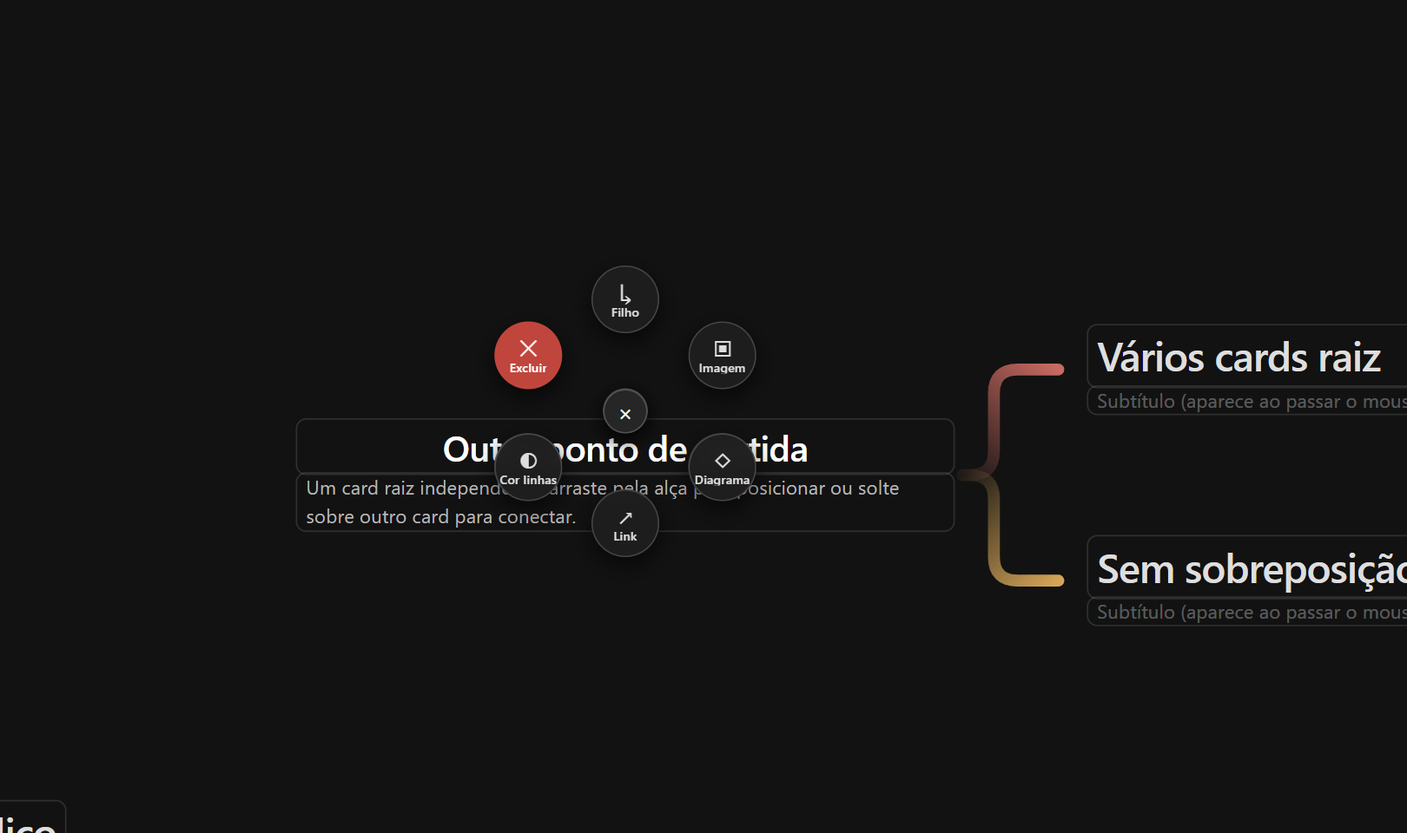
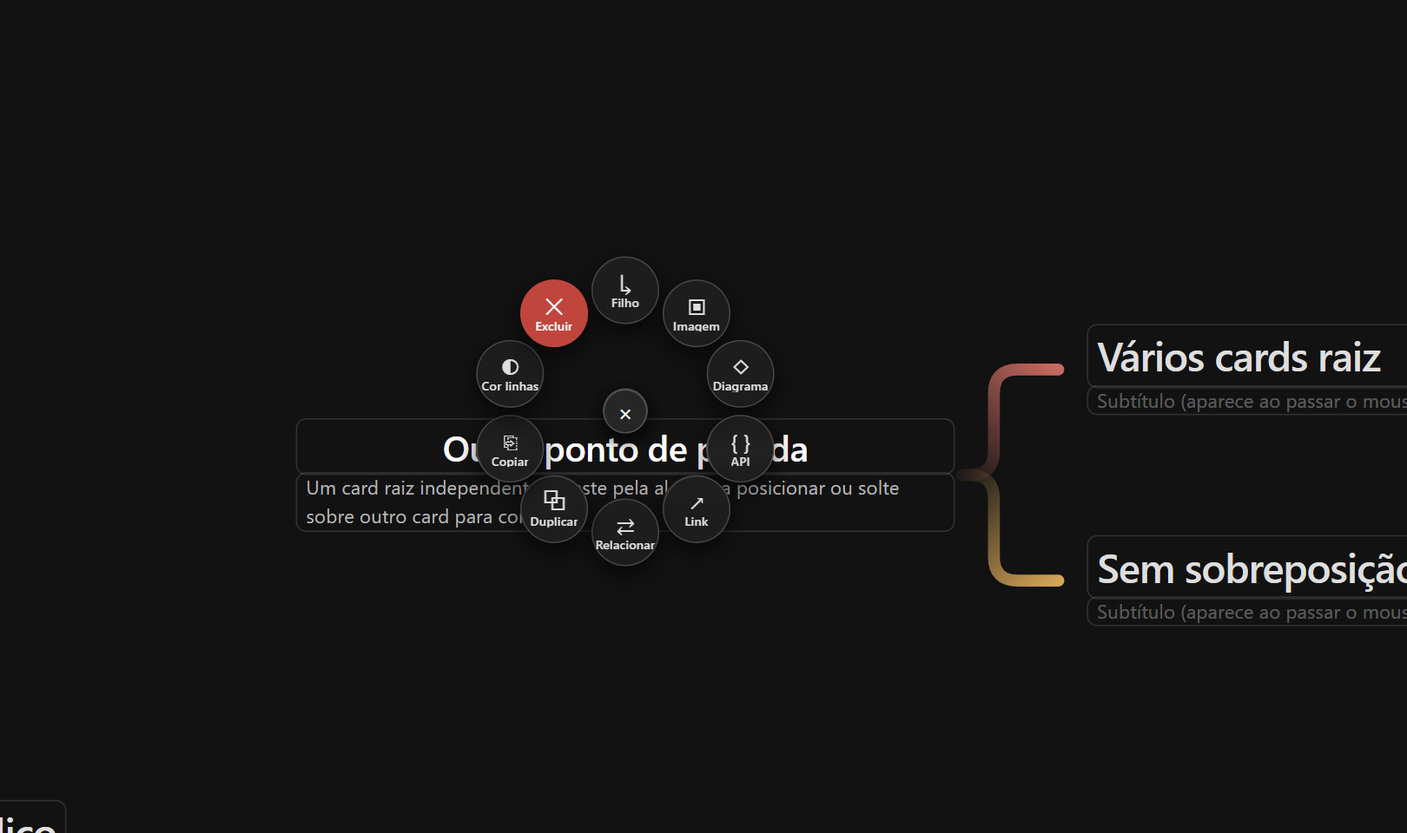
feat(api): attach collections and folders to cards
Cards can carry API references (node.apis, validated by the server). Drag a
collection or folder from the API panel onto a card, or use the wheel's API
action and the ⤓ buttons. The card shows an image-like tile with the first
requests that opens the client at that folder; a saved snapshot keeps it
readable offline, in text mode and in exported HTML. Docs (README en/pt,
schema, changelog), a new screenshot and API-10 cover it.

Changed region(s): [[0.3086, 0.5, 0.5556, 0.6875], [0.3395, 0.3125, 0.5556, 0.4688]]

diff --git a/app.js b/app.js
@@ -3,7 +3,7 @@ import {cancelMotion,snapshot,animateLayout,hoverEdge,updateEdges,onEdges} from 
 import * as store from './store.js?v=17';
 import {t,applyStatic} from './i18n.js?v=1';
 import {VERSION} from './version.js?v=1';
-import {initApiClient,openApiPanel,closeApiPanel,isApiOpen} from './api-client.js?v=1';
+import {initApiClient,openApiPanel,closeApiPanel,isApiOpen,setAttachTarget,summarize,API_DRAG_TYPE} from './api-client.js?v=2';
 applyStatic();
 const $=s=>document.querySelector(s), viewport=$('#viewport'), world=$('#world');
 $('#doc-version').textContent=`Context Maps v${VERSION}`;
@@ -269,10 +269,16 @@ async function addImages(node,files){
 const isImageFile=f=>/^image\/(png|jpe?g|webp|gif|svg\+xml)$/.test(f.type)||/\.(png|jpe?g|webp|gif|svg)$/i.test(f.name);
 const hasFiles=e=>!!e.dataTransfer&&[...(e.dataTransfer.types||[])].includes('Files');
 function enableDrop(el,node){
- const over=e=>{if(!hasFiles(e))return;e.preventDefault();e.dataTransfer.dropEffect='copy';el.classList.add('drop-target');};
+ const isApi=e=>!!e.dataTransfer&&[...(e.dataTransfer.types||[])].includes(API_DRAG_TYPE);
+ const over=e=>{if(!hasFiles(e)&&!isApi(e))return;e.preventDefault();e.dataTransfer.dropEffect='copy';el.classList.add('drop-target');};
  el.addEventListener('dragenter',over);el.addEventListener('dragover',over);
  el.addEventListener('dragleave',e=>{if(!el.contains(e.relatedTarget))el.classList.remove('drop-target');});
  el.addEventListener('drop',e=>{
+  if(isApi(e)){
+   e.preventDefault();e.stopPropagation();el.classList.remove('drop-target');
+   try{const ref=JSON.parse(e.dataTransfer.getData(API_DRAG_TYPE));endAttach();attachApi(node,ref);}catch{}
+   return;
+  }
   if(!hasFiles(e))return;
   e.preventDefault();e.stopPropagation();el.classList.remove('drop-target');
   const files=[...e.dataTransfer.files],images=files.filter(isImageFile);
@@ -359,6 +365,58 @@ function startRelate(node){
  showToast(t('relateHint',nameOf(node)),false,600000);
  document.addEventListener('keydown',onRelateKey,true); // Esc vale desde já
  setTimeout(()=>{if(relating)document.addEventListener('click',onRelateClick,true);},0); // o clique que abriu o menu não conta
+}
+
+/* APIs anexadas a um card: um bloco parecido com uma imagem que abre o cliente de API na coleção/pasta escolhida */
+const apiCache=new Map();
+function apiSummary(ref){
+ const key=`${ref.collection}|${ref.path||''}`,hit=apiCache.get(key);
+ if(hit&&Date.now()-hit.at<4000)return hit.promise;
+ const promise=summarize(ref).catch(()=>null);apiCache.set(key,{at:Date.now(),promise});return promise;
+}
+const API_ROWS=4;
+function apiTile(node,ref,index){
+ const readOnly=!!document.getElementById('cm-doc'); // HTML exportado: sem servidor, só o resumo salvo
+ const rows=Array.from({length:API_ROWS},()=>{const row=document.createElement('span');row.className='api-tile-row';return row;});
+ const foot=document.createElement('span');foot.className='api-tile-foot';
+ const head=document.createElement('span');head.className='api-tile-head';head.textContent=t('apiTileLabel',ref.name||ref.collection);
+ const fill=(sum,live)=>{
+  const data=sum||ref.snapshot;
+  rows.forEach((row,i)=>{
+   row.replaceChildren();const r=data?.requests?.[i];if(!r)return;
+   const m=document.createElement('span');m.className=`api-method api-m-${r.method}`;m.textContent=String(r.method).toUpperCase().slice(0,6);
+   const n=document.createElement('span');n.className='api-tile-req';n.textContent=r.name;row.append(m,n);
+  });
+  const count=data?.count??data?.requests?.length??0;
+  foot.textContent=data?`${t('apiTileCount',count)}${count>API_ROWS?` · ${t('apiTileMore',count-API_ROWS)}`:''}${live===false?` · ${t('apiOffline')}`:''}`:t('apiMissing');
+  if(sum&&sum.name)head.textContent=t('apiTileLabel',sum.name);
+ };
+ fill(null,false);
+ if(!readOnly)apiSummary(ref).then(sum=>fill(sum,!!sum));
+ const tile=document.createElement(readOnly?'div':'button');tile.className='api-tile';
+ if(!readOnly){tile.type='button';tile.setAttribute('aria-label',t('apiOpenTile',ref.name||ref.collection));tile.onclick=()=>{openApiPanel({collection:ref.collection,path:ref.path||''});$('#api-btn').setAttribute('aria-expanded','true');};}
+ tile.append(head,...rows,foot);
+ if(!editing||readOnly)return tile;
+ const item=document.createElement('div');item.className='image-item api-item';item.append(tile);
+ const tools=document.createElement('div');tools.className='image-tools';
+ const remove=document.createElement('button');remove.type='button';remove.textContent='×';remove.className='danger';remove.setAttribute('aria-label',`${t('apiDetach')}: ${nameOf(node)}`);
+ remove.onclick=()=>{node.apis.splice(index,1);if(!node.apis.length)delete node.apis;commit();render();};
+ tools.append(remove);item.append(tools);return item;
+}
+let attachTarget=null;
+function startAttach(node){attachTarget=node;openApiPanel();$('#api-btn').setAttribute('aria-expanded','true');setAttachTarget(nameOf(node));}
+function endAttach(){attachTarget=null;setAttachTarget(null);}
+async function attachApi(node,ref){
+ const entry={collection:ref.collection,path:ref.path||'',name:ref.name||ref.collectionName||ref.collection};
+ if((node.apis||[]).some(a=>a.collection===entry.collection&&(a.path||'')===entry.path))return;
+ const sum=await summarize({collection:entry.collection,path:entry.path}).catch(()=>null);
+ if(sum)entry.snapshot={count:sum.count,requests:sum.requests.map(r=>({name:r.name,method:r.method}))};
+ (node.apis||=[]).push(entry);commit();render();revealNode(node.id);
+ showToast(t('apiAttached',entry.name),true,4000);
+}
+function attachFromPanel(ref){
+ if(!attachTarget||!findAny(attachTarget.id)){showToast(t('apiPickCard'),false,6000);return;}
+ const target=attachTarget;endAttach();attachApi(target,ref);
 }
 
 /* Duplicar, copiar e colar ideias (com tudo abaixo). A área de cópia fica no navegador, então vale entre apresentações. */
@@ -468,6 +526,7 @@ function radialItems(node,depth,picker,anchor){
  items.push(
   {icon:'▣',label:t('image'),aria:t('addImage'),run:()=>picker.click()},
   {icon:'◇',label:t('diagram'),aria:t('addDiagram'),run:()=>openDiagramEditor(node,null)},
+  {icon:'{ }',label:t('apiButton'),aria:t('apiAttach'),run:()=>startAttach(node)},
   {icon:'↗',label:t('link'),aria:t('addLink'),run:()=>addLink(node)});
  items.push({icon:'⇄',label:t('relate'),aria:t('relateIdea'),run:()=>startRelate(node)},{icon:'⧉',label:t('duplicate'),aria:t('duplicateIdea'),run:()=>duplicateNode(node)},{icon:'⎘',label:t('copy'),aria:t('copyIdea'),run:()=>copyNode(node)});
  if((readClip()||memoryClip)?.kind==='context-maps-node')items.push({icon:'⎗',label:t('paste'),aria:t('pasteIdea'),run:()=>pasteNode(node)});
@@ -766,7 +825,9 @@ function render(){
   if(!editing&&!node.children.length)el.tabIndex=0; // folhas também recebem foco do teclado
   el.addEventListener('pointerenter',()=>{hoverEdge(node.id,true);hoverCross(node.id,true);});el.addEventListener('pointerleave',()=>{hoverEdge(node.id,false);hoverCross(node.id,false);});
   const images=imagesOf(node);
-  if(images.length){el.classList.add('has-image');images.forEach((image,i)=>el.append(imageItem(node,image,i)));}
+  if(images.length||(node.apis||[]).length)el.classList.add('has-image');
+  images.forEach((image,i)=>el.append(imageItem(node,image,i)));
+  (node.apis||[]).forEach((ref,i)=>el.append(apiTile(node,ref,i)));
   const text=document.createElement(isRoot?'h1':'p');el.append(text);
   const titled=node.title.trim().length>0;
   if(!titled&&!editing){text.hidden=true;el.classList.add('no-title');}
@@ -893,6 +954,7 @@ function buildReading(){
   if(node.subtitle){const sp=document.createElement('p');sp.className='reading-subtitle';sp.textContent=node.subtitle;article.append(sp);}
   imagesOf(node).forEach(image=>article.append(imageFor(image)));
   if(linksOf(node).length){const row=document.createElement('div');row.className='reading-links';linksOf(node).forEach(l=>row.append(anchorFor(l,'reading-link')));article.append(row);}
+  for(const ref of node.apis||[]){const p=document.createElement('p');p.className='reading-api';p.textContent=`${t('apiReadingLabel',ref.name||ref.collection,t('apiTileCount',ref.snapshot?.count??0))}`;article.append(p);}
   {const rels=relationsOf(node.id);if(rels.length){const p=document.createElement('p');p.className='reading-related';p.textContent=`↔ ${rels.map(nameOf).join(' · ')}`;article.append(p);}}
   node.children.forEach(c=>walk(c,depth+1));
  };
@@ -1067,7 +1129,7 @@ searchInput.addEventListener('keydown',e=>{
  else if(e.key==='Enter'){e.preventDefault();chooseSearch(searchIndex);}
  else if(e.key==='ArrowDown'||e.key==='ArrowUp'){e.preventDefault();if(searchHits.length){searchIndex=(searchIndex+(e.key==='ArrowDown'?1:-1)+searchHits.length)%searchHits.length;renderSearch();searchList.children[searchIndex]?.scrollIntoView({block:'nearest'});}}
 });
-initApiClient({toast:message=>showToast(message,false,5000),onClose:()=>$('#api-btn').setAttribute('aria-expanded','false')});
+initApiClient({toast:message=>showToast(message,false,5000),onClose:()=>{$('#api-btn').setAttribute('aria-expanded','false');endAttach();},attach:ref=>attachFromPanel(ref),attachCancel:()=>endAttach()});
 $('#api-btn').onclick=()=>{if(isApiOpen()){closeApiPanel();}else{openApiPanel();$('#api-btn').setAttribute('aria-expanded','true');}};
 $('#search-btn').onclick=()=>searchPanel.hidden?openSearch():closeSearch();
 document.addEventListener('pointerdown',e=>{if(!searchPanel.hidden&&!e.target.closest('#search-panel,#search-btn'))closeSearch(false);});

diff --git a/i18n.js b/i18n.js
@@ -130,7 +130,7 @@ const apiStrings={
   apiScriptPre:'Pre-request script',apiScriptPost:'Post-response script',apiTests:'Tests',apiScriptsNote:'Scripts, tests and assertions are kept in the file (Bruno can run them) but are not executed here yet.',apiNoScripts:'This request has no scripts.',
   apiNoResponse:'No response yet. Press Send (Ctrl+Enter).',apiTimeout:s=>`Timed out after ${s} s`,apiCancelled:'Cancelled',apiFailed:'Request failed',apiTruncated:'truncated',apiBinary:n=>`Binary response (${n}) — not shown`,
   apiRespBody:'Body',apiRespHeaders:'Headers',apiRaw:'Raw',apiPretty:'Pretty',apiCopy:'Copy',apiCopied:'Copied',
-  apiTileLabel:n=>`API: ${n}`,apiTileCount:n=>`${n} ${n===1?'request':'requests'}`,apiTileMore:n=>`+${n} more`,apiOpenTile:n=>`Open API client: ${n}`,apiDetach:'Remove API from card',apiAttachHint:n=>`Drag a collection or folder from the API panel onto “${n}”, or use ⤓ on one of them`,apiAttached:n=>`“${n}” attached to the card`,apiMissing:'collection not found'
+  apiTileLabel:n=>`API: ${n}`,apiTileCount:n=>`${n} ${n===1?'request':'requests'}`,apiTileMore:n=>`+${n} more`,apiOpenTile:n=>`Open API client: ${n}`,apiDetach:'Remove API from card',apiAttachHint:n=>`Drag a collection or folder from the API panel onto “${n}”, or use ⤓ on one of them`,apiAttached:n=>`“${n}” attached to the card`,apiMissing:'collection not found',apiAttachBanner:n=>`Attaching to “${n}”: click ⤓ on a collection or folder, or drag it onto the card`,apiAttachCancel:'Cancel',apiPickCard:'Open the card’s wheel (✎) and choose API first, or drag the item onto a card in edit mode',apiOffline:'saved snapshot',apiReadingLabel:(n,c)=>`API: ${n} (${c})`
  },
  pt:{
   apiButton:'API',apiButtonTitle:'Cliente de API (tela dividida)',apiTitle:'Cliente de API',apiClose:'Fechar o cliente de API',apiResize:'Redimensionar o painel de API',
@@ -151,7 +151,7 @@ const apiStrings={
   apiScriptPre:'Script de pré-requisição',apiScriptPost:'Script pós-resposta',apiTests:'Testes',apiScriptsNote:'Scripts, testes e asserções ficam guardados no arquivo (o Bruno consegue executá-los), mas ainda não são executados aqui.',apiNoScripts:'Esta request não tem scripts.',
   apiNoResponse:'Sem resposta ainda. Clique em Enviar (Ctrl+Enter).',apiTimeout:s=>`Tempo esgotado após ${s} s`,apiCancelled:'Cancelada',apiFailed:'A requisição falhou',apiTruncated:'truncada',apiBinary:n=>`Resposta binária (${n}) — não exibida`,
   apiRespBody:'Corpo',apiRespHeaders:'Cabeçalhos',apiRaw:'Bruto',apiPretty:'Formatado',apiCopy:'Copiar',apiCopied:'Copiado',
-  apiTileLabel:n=>`API: ${n}`,apiTileCount:n=>`${n} ${n===1?'request':'requests'}`,apiTileMore:n=>`+${n} mais`,apiOpenTile:n=>`Abrir o cliente de API: ${n}`,apiDetach:'Remover a API do card',apiAttachHint:n=>`Arraste uma coleção ou pasta do painel de API para “${n}”, ou use ⤓ em uma delas`,apiAttached:n=>`“${n}” anexada ao card`,apiMissing:'coleção não encontrada'
+  apiTileLabel:n=>`API: ${n}`,apiTileCount:n=>`${n} ${n===1?'request':'requests'}`,apiTileMore:n=>`+${n} mais`,apiOpenTile:n=>`Abrir o cliente de API: ${n}`,apiDetach:'Remover a API do card',apiAttachHint:n=>`Arraste uma coleção ou pasta do painel de API para “${n}”, ou use ⤓ em uma delas`,apiAttached:n=>`“${n}” anexada ao card`,apiMissing:'coleção não encontrada',apiAttachBanner:n=>`Anexando a “${n}”: clique em ⤓ numa coleção ou pasta, ou arraste-a para o card`,apiAttachCancel:'Cancelar',apiPickCard:'Abra a roda do card (✎) e escolha API primeiro, ou arraste o item para um card no modo de edição',apiOffline:'resumo salvo',apiReadingLabel:(n,c)=>`API: ${n} (${c})`
  }
 };
 Object.assign(dict.en,apiStrings.en);Object.assign(dict.pt,apiStrings.pt);

diff --git a/api-client.js b/api-client.js
@@ -155,7 +155,7 @@ function treeRows(items,depth,q){
  return items.filter(it=>matches(it,q)).flatMap(it=>{
   const isFolder=it.type==='folder',open=q?true:state.expanded.has(it.path);
   const row=h('li',{role:'treeitem','aria-level':String(depth+1),'aria-expanded':isFolder?String(open):null,'aria-selected':String(!isFolder&&it.path===state.reqPath),class:`api-row${!isFolder&&it.path===state.reqPath?' is-active':''}`,style:`--depth:${depth}`,draggable:'true',dataset:{path:it.path}},
-   h('button',{type:'button',class:'api-row-main',onClick:()=>{if(isFolder){state.expanded.has(it.path)?state.expanded.delete(it.path):state.expanded.add(it.path);renderTree();}else openRequest(it.path);}},
+   h('button',{type:'button',class:'api-row-main',draggable:'true',onClick:()=>{if(isFolder){state.expanded.has(it.path)?state.expanded.delete(it.path):state.expanded.add(it.path);renderTree();}else openRequest(it.path);}},
     isFolder?h('span',{class:'api-caret','aria-hidden':'true'},open?'▾':'▸'):methodBadge(it.method),
     h('span',{class:'api-row-name'},isFolder?`📁 ${it.name}`:it.name)),
    h('span',{class:'api-row-actions'},
@@ -395,7 +395,8 @@ function build(){
   h('div',{class:'api-tree-tools'},filter,h('button',{type:'button',class:'api-icon-btn',title:t('apiNewRequest'),'aria-label':t('apiNewRequest'),onClick:()=>state.coll&&newItem('request','')},'+'),h('button',{type:'button',class:'api-icon-btn',title:t('apiNewFolder'),'aria-label':t('apiNewFolder'),onClick:()=>state.coll&&newItem('folder','')},'▤')),
   els.tree);
  const resizer=h('div',{class:'api-resizer',role:'separator','aria-orientation':'vertical','aria-label':t('apiResize'),tabindex:'0'});
- panel=h('aside',{id:'api-panel',class:'api-panel',role:'complementary','aria-label':t('apiTitle'),hidden:true},resizer,els.head,h('div',{class:'api-body'},treeCol,els.main),els.importInput);
+ els.banner=h('div',{class:'api-attach-banner',role:'status',hidden:true},h('span',{}),h('button',{type:'button',class:'api-btn',onClick:()=>{setAttachTarget(null);hooks.attachCancel?.();}},t('apiAttachCancel')));
+ panel=h('aside',{id:'api-panel',class:'api-panel',role:'complementary','aria-label':t('apiTitle'),hidden:true},resizer,els.head,els.banner,h('div',{class:'api-body'},treeCol,els.main),els.importInput);
  document.body.append(panel);
  // largura: arrastar a borda ou usar as setas
  const setWidth=px=>{const w=Math.min(Math.max(px,420),window.innerWidth-260);document.documentElement.style.setProperty('--api-w',`${w}px`);store.set('cm-api-width',String(Math.round(w)));};
@@ -416,6 +417,10 @@ function build(){
 /* ---------- interface pública ---------- */
 export function initApiClient(options={}){hooks=options;}
 export const isApiOpen=()=>state.open;
+export function setAttachTarget(label){ // faixa no topo do painel: aviso de que o próximo ⤓ vai para este card
+ if(!panel)build();
+ els.banner.hidden=!label;if(label)els.banner.firstChild.textContent=t('apiAttachBanner',label);
+}
 export async function openApiPanel({collection,path}={}){
  if(!panel)build();
  state.open=true;panel.hidden=false;document.body.classList.add('api-open');

diff --git a/index.html b/index.html
@@ -1,6 +1,6 @@
 <!doctype html>
 <html lang="en">
-<head><meta charset="UTF-8"><meta name="viewport" content="width=device-width, initial-scale=1"><meta name="theme-color" content="#121212"><title>Context Maps</title><link rel="stylesheet" href="styles.css?v=45"></head>
+<head><meta charset="UTF-8"><meta name="viewport" content="width=device-width, initial-scale=1"><meta name="theme-color" content="#121212"><title>Context Maps</title><link rel="stylesheet" href="styles.css?v=46"></head>
 <body>
  <main id="viewport" data-i18n-attr="aria-label:viewport" aria-label="Interactive map"><div id="world"><svg id="connections" aria-hidden="true"></svg><svg id="cross-links" aria-hidden="true"></svg><div id="nodes" role="tree" data-i18n-attr="aria-label:treeLabel"></div></div></main>
  <div id="doc-bar" class="doc-bar"><button id="doc-button" aria-haspopup="menu" aria-expanded="false"><span id="doc-title"></span><svg viewBox="0 0 12 12" aria-hidden="true"><path d="m3 4.5 3 3 3-3" fill="none" stroke="currentColor" stroke-width="1.6" stroke-linecap="round" stroke-linejoin="round"/></svg></button><span id="save-status" role="status" aria-live="polite"></span><div id="doc-menu" role="menu" hidden><div id="doc-list"></div><button id="doc-new" type="button" role="menuitem" data-i18n="docNew"></button><button id="doc-addfolder" type="button" role="menuitem" data-i18n="docAddFolder"></button><button id="doc-saveas" type="button" role="menuitem" data-i18n="docSaveAs"></button><button id="doc-copy" type="button" role="menuitem" data-i18n="docCopy"></button><button id="doc-export-html" type="button" role="menuitem" data-i18n="exportHtml"></button><button id="doc-export-zip" type="button" role="menuitem" data-i18n="exportZip"></button><button id="doc-import" type="button" role="menuitem" data-i18n="importFile"></button><input id="import-input" type="file" accept=".zip,.html,.htm,application/zip,text/html" hidden><button id="doc-delete" type="button" role="menuitem" class="danger" data-i18n="docDelete"></button><div id="doc-version" aria-hidden="true"></div></div></div>
@@ -39,5 +39,5 @@
    <footer><span id="diagram-error" role="alert"></span><button id="diagram-apply" type="button" data-i18n="apply"></button></footer>
   </div>
  </div>
- <script type="module" src="app.js?v=45"></script>
+ <script type="module" src="app.js?v=46"></script>
 </body></html>

diff --git a/styles.css b/styles.css
@@ -461,3 +461,20 @@ body.api-resizing{cursor:col-resize;user-select:none}
 .api-modal-card header,.api-modal-card footer{display:flex;align-items:center;justify-content:space-between;gap:.5rem}
 .api-modal-card h3{margin:0;font-size:.95rem}
 @media (max-width:900px){body.api-open #viewport{right:0;bottom:55vh}.api-panel{top:auto;left:0;width:auto;height:55vh;border-left:0;border-top:1px solid #ffffff1f}body.api-open .toolbar{left:50%;bottom:calc(55vh + .6rem)}body.api-open .zoom-controls{right:1rem;bottom:calc(55vh + .6rem)}.api-resizer{display:none}.api-tree-col{width:42%}}
+
+/* Cartão de API dentro do card (parece uma imagem; abre o cliente de API) */
+.node .api-tile{display:flex;flex-direction:column;gap:3px;width:100%;margin-bottom:10px;padding:.65rem .75rem;text-align:left;border-radius:8px;border:1px solid #ffffff1f;background:linear-gradient(160deg,#ffffff10,#ffffff05);color:#ffffffd9;font:inherit;cursor:pointer;box-shadow:inset 0 0 0 1px #ffffff0a}
+.node div.api-tile{cursor:default}
+.node .api-tile:hover{border-color:#4f9d7a88;background:linear-gradient(160deg,#4f9d7a22,#ffffff08)}
+.api-tile-head{font-weight:700;font-size:.82rem;color:#fff;overflow:hidden;text-overflow:ellipsis;white-space:nowrap}
+.api-tile-row{display:flex;align-items:center;gap:.5rem;min-height:1.25rem;font-size:.74rem}
+.api-tile-req{overflow:hidden;text-overflow:ellipsis;white-space:nowrap;color:#ffffffc7}
+.api-tile-foot{margin-top:2px;font-size:.68rem;color:#ffffff80}
+.node .api-tile .api-method{min-width:2.6rem;text-align:left}
+.api-item .api-tile{margin-bottom:10px}
+.reading-api{margin:.2rem 0 .8rem;color:#8fd1b0;font-size:.82rem}
+.api-attach-banner{display:flex;align-items:center;justify-content:space-between;gap:.6rem;padding:.45rem .8rem;background:#2f7d5d33;border-bottom:1px solid #2f7d5d88;color:#d6f2e4;font-size:.76rem}
+.api-attach-banner[hidden]{display:none}
+.api-row .api-attach{color:#8fd1b0}
+.api-collection-row .api-attach{color:#8fd1b0}
+body.is-editing .node.drop-target{outline:2px dashed #4f9d7a;outline-offset:6px;border-radius:12px}

diff --git a/README.pt-BR.md b/README.pt-BR.md
@@ -41,7 +41,7 @@ decisões — e publica o mapa pronto, com imagens, diagramas e links.
 - [Por que Context Maps](#por-que-context-maps)
 - [Como as peças se encaixam](#como-as-peças-se-encaixam)
 - [Começando](#começando)
-- [Recursos](#recursos) — [navegar](#navegar-e-ler) · [editar](#editar) · [diagramas](#imagens-diagramas-e-links) · [exportar](#exportar-importar-e-compartilhar) · [salvar como](#salvar-como-e-pastas)
+- [Recursos](#recursos) — [navegar](#navegar-e-ler) · [editar](#editar) · [diagramas](#imagens-diagramas-e-links) · [cliente de API](#cliente-de-api-tela-dividida) · [exportar](#exportar-importar-e-compartilhar) · [salvar como](#salvar-como-e-pastas)
 - [Skill para agentes](#skill-para-agentes)
 - [Formato dos dados](#formato-dos-dados) · [API do servidor](#api-do-servidor) · [Segurança](#segurança)
 - [Testes](#testes) · [Regenerando as imagens](#regenerando-as-imagens)
@@ -95,6 +95,7 @@ Abra <http://127.0.0.1:4173>. Na primeira execução o servidor cria a apresenta
 | `PORT` | `4173` | Porta do servidor |
 | `PRESENTATIONS_DIR` | `./presentations` | Pasta da biblioteca principal |
 | `CONTEXT_MAPS_CONFIG` | `./.context-maps.json` | Onde as pastas extras ficam registradas |
+| `COLLECTIONS_DIR` | `./collections` | Coleções do cliente de API (formato Bruno); os segredos vão para `.secrets/` dentro dela |
 
 > Sem o servidor (por exemplo `python -m http.server`), o app abre **somente em exibição**, com o mapa
 > de demonstração embutido. Não abra o `index.html` por `file://` (usa módulos ES).
@@ -197,6 +198,26 @@ chega até ele nunca mudam.
 - **Exportar como HTML…** baixa um único arquivo `.html` com o visualizador, o mapa e todas as imagens dentro. Ele abre offline em qualquer navegador, somente leitura — dá para mandar por e-mail ou anexar a um chamado.
 - **Exportar como ZIP…** baixa os arquivos da apresentação: `<nome>.json` mais a pasta `<nome>/assets/` com as imagens. Descompacte numa pasta de um repositório (e use **Adicionar pasta…**) ou entregue a um colega.
 - **Importar…** (no mesmo menu) lê um **pacote ZIP** ou um **HTML exportado** e abre o resultado como uma apresentação nova. Os nomes continuam únicos (um nome repetido ganha " (2)"), as imagens são copiadas para `presentations/<id>/assets/` e referências a arquivos que não estão no pacote são descartadas. Nada do arquivo é executado.
+
+### Cliente de API (tela dividida)
+
+<p align="center">
+  <img src="docs/images/10-api-client.png" alt="O cliente de API em tela dividida ao lado do mapa, com uma coleção anexada a um card" width="920"><br>
+  <sub>Mapa à esquerda, cliente de API à direita: o bloco no card é uma coleção anexada a ele.</sub>
+</p>
+
+O botão **API** na barra inferior divide a tela: o mapa fica à esquerda e abre à direita um **cliente no estilo Postman/Bruno** (arraste a borda, ou use as setas nela, para redimensionar).
+
+- **Coleções no formato do Bruno.** Cada coleção é uma pasta em `collections/` (`bruno.json`, um arquivo `.bru` por request, pastas, `environments/*.bru`). É texto puro: versiona bem no Git e abre no [Bruno](https://www.usebruno.com/). Crie, importe (**⋯ › Importar**, um ZIP do Bruno) e exporte (ZIP) pelo painel.
+- **Requests.** Método, URL (os parâmetros de consulta e de caminho `:id` ficam sincronizados com a URL), cabeçalhos, corpos (JSON, texto, XML, form URL-encoded), autenticação bearer e basic, variáveis da request e docs. As mudanças são salvas sozinhas no arquivo `.bru`. **Ctrl+Enter** envia.
+- **Variáveis e ambientes.** Use `{{nome}}` em qualquer lugar (ordem: coleção < ambiente < variáveis da request) e também `{{$timestamp}}`, `{{$isoTimestamp}}`, `{{$guid}}` e `{{$randomInt}}`. A aba **Variáveis** mostra a request resolvida. Os ambientes se editam em ⚙; marque um valor como **Segredo** e ele fica só nesta máquina (`collections/.secrets/`, fora do Git) — nunca nos arquivos `.bru`, nas exportações ZIP nem no repositório.
+- **Envio.** As requests passam pelo servidor local (sem limites de CORS; só `http`/`https`, 30 s de tempo limite, 10 MB de resposta). A resposta mostra status, tempo, tamanho, cabeçalhos e o corpo formatado.
+- **Scripts e testes** (blocos `script:`, `tests`, `assert`) ficam guardados no arquivo, então o Bruno consegue executá-los, mas este cliente **ainda não os executa**.
+- **Reordene** requests e pastas arrastando na árvore.
+
+**Anexar a um card.** Arraste uma coleção ou pasta do painel para um card (modo edição), ou abra a roda do card, escolha **API** e clique em ⤓ numa coleção ou pasta. O card mostra um bloco, como uma imagem, com as primeiras requests; clicar nele abre o cliente naquela pasta. O bloco guarda um resumo salvo, então continua legível no modo texto e no HTML exportado (onde não é clicável, já que não há servidor).
+
+Uma coleção de exemplo, **Context Maps API**, acompanha o projeto em `collections/` e documenta a própria API do app (escolha o ambiente `local`).
 
 ### Salvar como e pastas
 
@@ -312,6 +333,8 @@ Escuta apenas em `127.0.0.1`. Todas as rotas respondem JSON e `Cache-Control: no
 | `GET/POST /api/libraries`, `DELETE /api/libraries/:key` | Lista, adiciona ou esquece pastas extras |
 | `POST /api/pick-folder` | Abre o seletor de pastas do sistema e devolve o caminho escolhido |
 | `GET /api/presentations/:id/export?format=html\|zip` | Baixa a apresentação como um HTML único e autocontido ou como pacote ZIP |
+| `GET/POST/DELETE /api/collections…` | Coleções no formato do Bruno: listar, criar, itens, requests, ambientes, exportar/importar ZIP (`/api/collections/import`) |
+| `POST /api/send` | Envia uma requisição HTTP a partir do servidor local (só `http`/`https`) para o cliente de API |
 | `POST /api/import?name=…` | Importa um pacote ZIP ou um HTML exportado (corpo bruto) como uma apresentação nova |
 | `DELETE /api/presentations/:id` | Remove o arquivo e as imagens |
 | `POST /api/presentations/:id/assets?name=…` | Envia imagem (png, jpg, webp, gif, svg; até 15 MB) |
@@ -320,7 +343,7 @@ Escuta apenas em `127.0.0.1`. Todas as rotas respondem JSON e `Cache-Control: no
 
 Toda requisição que altera algo precisa do cabeçalho `x-context-maps: 1` (outras páginas web não conseguem
 enviá-lo ao seu servidor local) e o `Host` precisa ser local. Não há acesso a arquivos fora da pasta do app e
-das bibliotecas registradas, só links http/https são aceitos e o Mermaid roda em `securityLevel: strict`.
+das bibliotecas registradas, só links http/https são aceitos e o Mermaid roda em `securityLevel: strict`. O `POST /api/send` (o proxy do cliente de API) tem a mesma proteção, mas lembre que ele alcança qualquer host que a sua máquina alcança — inclusive serviços em `localhost` — então use o app só numa máquina e rede de confiança.
 
 ## Testes
 
@@ -328,7 +351,7 @@ das bibliotecas registradas, só links http/https são aceitos e o Mermaid roda 
 
 ```bash
 npm install --no-save playwright-core   # uma vez; ou defina PLAYWRIGHT_MODULE para um playwright-core existente
-npm run test:e2e                        # edit, skill, browser, cards, motion e a11y, com servidor temporário isolado
+npm run test:e2e                        # edit, skill, collections, api, browser, cards, motion e a11y, com servidor temporário isolado
 node tests/edit.mjs                     # ou rode uma suíte só
 ```
 
@@ -339,6 +362,8 @@ node tests/edit.mjs                     # ou rode uma suíte só
 | `browser` MAP-01..11 | navegação, zoom, modo texto, mobile, tela cheia |
 | `cards` CARD-01..06 | títulos, raiz, teclado, imagens |
 | `motion` MOT-01..05 | animações e movimento reduzido |
+| `collections` COLL-01..06 · `bru` BRU-01..05 | formato Bruno, API de coleções, segredos, ZIP |
+| `api` API-01..10 | cliente em tela dividida, ambientes, envio, anexar a cards |
 | `a11y` A11Y-01..07 | semântica de árvore, navegação por teclado, nomes acessíveis, foco nas janelas, zoom por pinça |
 
 `BROWSER_EXECUTABLE` escolhe um binário específico do Chrome/Chromium. As mesmas verificações rodam em Linux,

diff --git a/README.md b/README.md
@@ -41,7 +41,7 @@ publishes the finished map with images, diagrams and links.
 - [Why Context Maps](#why-context-maps)
 - [How it fits together](#how-it-fits-together)
 - [Getting started](#getting-started)
-- [Features](#features) — [navigate](#navigate-and-read) · [edit](#edit) · [diagrams](#images-diagrams-and-links) · [export](#export-import-and-share) · [save as](#save-as-and-folders)
+- [Features](#features) — [navigate](#navigate-and-read) · [edit](#edit) · [diagrams](#images-diagrams-and-links) · [API client](#api-client-split-view) · [export](#export-import-and-share) · [save as](#save-as-and-folders)
 - [Agent skill](#agent-skill)
 - [Data format](#data-format) · [Server API](#server-api) · [Security](#security)
 - [Tests](#tests) · [Regenerating the screenshots](#regenerating-the-screenshots)
@@ -95,6 +95,7 @@ Open <http://127.0.0.1:4173>. On first run the server creates the demo presentat
 | `PORT` | `4173` | Server port |
 | `PRESENTATIONS_DIR` | `./presentations` | Main library folder |
 | `CONTEXT_MAPS_CONFIG` | `./.context-maps.json` | Where the extra folders are remembered |
+| `COLLECTIONS_DIR` | `./collections` | API client collections (Bruno format); secrets go to `.secrets/` inside it |
 
 > Without the server (for example `python -m http.server`) the app opens in **view mode only**, with the
 > built-in demo map. Do not open `index.html` through `file://` (it uses ES modules).
@@ -197,6 +198,26 @@ arriving at it never change.
 - **Export as HTML…** downloads a single `.html` file with the viewer, the map and all images inside. It opens offline in any browser, read-only — send it by e-mail or attach it to a ticket.
 - **Export as ZIP…** downloads the presentation files: `<name>.json` plus the `<name>/assets/` folder with its images. Unzip it into a repository folder (and **Add folder…**) or hand it to a teammate.
 - **Import…** (same menu) reads a **ZIP package** or an **exported HTML file** and opens the result as a new presentation. Names stay unique (a repeated name gets " (2)"), images are copied into `presentations/<id>/assets/`, and references to files that are not in the package are dropped. Nothing in the file is executed.
+
+### API client (split view)
+
+<p align="center">
+  <img src="docs/images/10-api-client.png" alt="The API client in a split view next to the map, with a collection attached to a card" width="920"><br>
+  <sub>Map on the left, API client on the right: the tile on the card is a collection attached to it.</sub>
+</p>
+
+The **API** button in the bottom bar splits the screen: the map stays on the left and a **Postman/Bruno-style client** opens on the right (drag its edge, or use the arrow keys on it, to resize).
+
+- **Collections in the Bruno format.** Each collection is a folder in `collections/` (`bruno.json`, one `.bru` file per request, folders, `environments/*.bru`). It is plain text, so it versions well with Git and opens in [Bruno](https://www.usebruno.com/). Create, import (**⋯ › Import**, a Bruno ZIP) and export (ZIP) from the panel.
+- **Requests.** Method, URL (query and `:path` params stay in sync with the URL), headers, bodies (JSON, text, XML, form URL-encoded), bearer and basic auth, request variables and docs. Changes are saved automatically to the `.bru` file. **Ctrl+Enter** sends.
+- **Variables and environments.** Use `{{name}}` anywhere (order: collection < environment < request variables) plus `{{$timestamp}}`, `{{$isoTimestamp}}`, `{{$guid}}` and `{{$randomInt}}`. The **Vars** tab shows the resolved request. Environments are edited with ⚙; mark a value as **Secret** and it is stored only on this machine (`collections/.secrets/`, git-ignored) — never in the `.bru` files, ZIP exports or the repository.
+- **Sending.** Requests go through the local server (no CORS limits; only `http`/`https`, 30 s timeout, 10 MB response). The response shows status, time, size, headers and a formatted body.
+- **Scripts and tests** (`script:`, `tests`, `assert` blocks) are preserved in the file, so Bruno can run them, but they are **not executed** by this client yet.
+- **Reorder** requests and folders by dragging them in the tree.
+
+**Attach to a card.** Drag a collection or folder from the panel onto a card (edit mode), or open the card's wheel, choose **API** and press ⤓ on a collection or folder. The card shows a tile, like an image, with the first requests; clicking it opens the client at that folder. The tile keeps a saved snapshot, so it still reads in text mode and in exported HTML (where it is not clickable, since there is no server).
+
+An example collection, **Context Maps API**, ships in `collections/` and documents the app's own API (choose the `local` environment).
 
 ### Save as and folders
 
@@ -312,6 +333,8 @@ Listens on `127.0.0.1` only. Every route answers JSON with `Cache-Control: no-st
 | `GET/POST /api/libraries`, `DELETE /api/libraries/:key` | List, add or forget extra folders |
 | `POST /api/pick-folder` | Opens the system folder picker and returns the chosen path |
 | `GET /api/presentations/:id/export?format=html\|zip` | Download the presentation as one self-contained HTML file or as a ZIP package |
+| `GET/POST/DELETE /api/collections…` | Collections in the Bruno format: list, create, items, requests, environments, ZIP export/import (`/api/collections/import`) |
+| `POST /api/send` | Send an HTTP request from the local server (`http`/`https` only) for the API client |
 | `POST /api/import?name=…` | Import a ZIP package or an exported HTML file (raw body) as a new presentation |
 | `DELETE /api/presentations/:id` | Remove the file and its images |
 | `POST /api/presentations/:id/assets?name=…` | Upload an image (png, jpg, webp, gif, svg; up to 15 MB) |
@@ -320,7 +343,7 @@ Listens on `127.0.0.1` only. Every route answers JSON with `Cache-Control: no-st
 
 Every request that changes something must carry the `x-context-maps: 1` header (other web pages cannot send
 it to your local server) and the `Host` must be local. There is no access to files outside the app folder and
-the registered libraries, only http/https links are accepted, and Mermaid runs with `securityLevel: strict`.
+the registered libraries, only http/https links are accepted, and Mermaid runs with `securityLevel: strict`. `POST /api/send` (the API client proxy) is protected the same way, but note that it can reach any host your machine can — including `localhost` services — so use the app only on a machine and network you trust.
 
 ## Tests
 
@@ -328,7 +351,7 @@ the registered libraries, only http/https links are accepted, and Mermaid runs w
 
 ```bash
 npm install --no-save playwright-core   # once; or set PLAYWRIGHT_MODULE to an existing playwright-core
-npm run test:e2e                        # edit, skill, browser, cards, motion and a11y, with an isolated temporary server
+npm run test:e2e                        # edit, skill, collections, api, browser, cards, motion and a11y, with an isolated temporary server
 node tests/edit.mjs                     # or run a single suite
 ```
 
@@ -339,6 +362,8 @@ node tests/edit.mjs                     # or run a single suite
 | `browser` MAP-01..11 | navigation, zoom, text mode, mobile, full screen |
 | `cards` CARD-01..06 | titles, root, keyboard, images |
 | `motion` MOT-01..05 | animations and reduced motion |
+| `collections` COLL-01..06 · `bru` BRU-01..05 | Bruno format, collections API, secrets, ZIP |
+| `api` API-01..10 | split-view client, environments, sending, attaching to cards |
 | `a11y` A11Y-01..07 | tree semantics, keyboard navigation, accessible names, dialog focus, pinch zoom |
 
 `BROWSER_EXECUTABLE` selects a specific Chrome/Chromium binary. The same checks run on Linux, macOS and Windows

diff --git a/CHANGELOG.md b/CHANGELOG.md
@@ -7,6 +7,11 @@ How to cut a release: [`docs/releasing.md`](docs/releasing.md).
 
 ## [Unreleased]
 
+### Added
+- **API client (Postman/Bruno style)** in a split view: the **API** button divides the screen (map on the left, client on the right, resizable). Collections are plain folders in the **Bruno format** (`collections/<name>/` with `bruno.json`, `.bru` requests, folders and `environments/*.bru`), so they can be versioned with Git and opened in Bruno. Create, rename, delete and drag-reorder folders and requests; edit method, URL (query and path params stay in sync), headers, JSON/text/XML/form bodies, bearer/basic auth, request variables and docs; use `{{variables}}` with environments (and `{{$timestamp}}`, `{{$guid}}`…), see the resolved request, and send it through the local server (no CORS), with status, time, size, headers and a formatted body. **Secret** environment values are stored only on the machine (`collections/.secrets/`, git-ignored) and never in the files, ZIP exports or the repository. Scripts, tests and assertions are preserved but not executed yet. Import and export collections as ZIP. A bundled example collection documents the app's own API.
+- **Attach APIs to cards**: drag a collection or folder from the API panel onto a card (edit mode) or use the card's wheel (**API** then ⤓). The card shows a tile, like an image, with the first requests; clicking it opens the client at that folder. A saved snapshot keeps the tile readable offline and in exported HTML; text mode lists the attached APIs.
+- New endpoints: `/api/collections/…` (collections, items, requests, environments, ZIP import/export) and `POST /api/send` (http/https only, 30 s timeout, 10 MB response limit).
+
 ## [0.3.0] - 2026-10-17
 
 A release about working faster and sharing: undo/redo, search, copy and paste, related ideas, export and

diff --git a/skills/context-maps/schema.md b/skills/context-maps/schema.md
@@ -33,6 +33,7 @@
 - `color`: optional, only on direct children of the root (the others inherit).
 - `linksColor`: optional colour of the lines that leave this node towards its children (any node with children, including the root); it does not affect the node, its children or the line that arrives at it.
 - `related`: optional array of node ids (same presentation) linked to this node as cross-links; the relation works in both directions and ids of deleted nodes are dropped on save. In outlines use `[rel:Title]`.
+- `apis`: optional array of API references attached to the card, `{collection, path, name, snapshot?}` (`collection` = folder name in `collections/`, `path` = folder inside it, empty for the whole collection). Created by the app (Attach to card); the skill does not write it.
 - `images`: optional list (images and/or diagrams, in display order). The legacy single `image` field is still read and migrated on save.
 - `subtitle`: optional supporting text (up to 2000 characters), shown only while hovering the card.
 - `links`: optional list of `{url, label?}` (http/https only), shown as an "N link(s)" badge below the card.

diff --git a/skills/context-maps/schema.pt-BR.md b/skills/context-maps/schema.pt-BR.md
@@ -32,6 +32,7 @@
 - `color`: opcional, só nos filhos diretos da raiz (os demais herdam).
 - `linksColor`: opcional, cor das linhas que saem deste nó em direção às filhas (qualquer nó com filhas, inclusive a raiz); não afeta o nó, as filhas nem a linha que chega até ele.
 - `related`: opcional, lista de ids de nós (da mesma apresentação) ligados a este como ligações cruzadas; a relação vale nos dois sentidos e os ids de nós excluídos saem ao salvar. Nos outlines use `[rel:Título]`.
+- `apis`: opcional, lista de referências de API anexadas ao card, `{collection, path, name, snapshot?}` (`collection` = nome da pasta em `collections/`, `path` = pasta dentro dela, vazio para a coleção toda). Criado pelo app (Anexar ao card); a skill não o escreve.
 - `images`: lista opcional (imagens e/ou diagramas, na ordem de exibição). O campo antigo `image` (um só) ainda é lido e migrado ao salvar.
 - `subtitle`: texto de apoio opcional (até 2000 caracteres), exibido só ao passar o mouse no card.
 - `links`: lista opcional de `{url, label?}` (apenas http/https), exibida como selo "N link(s)" abaixo do card.
